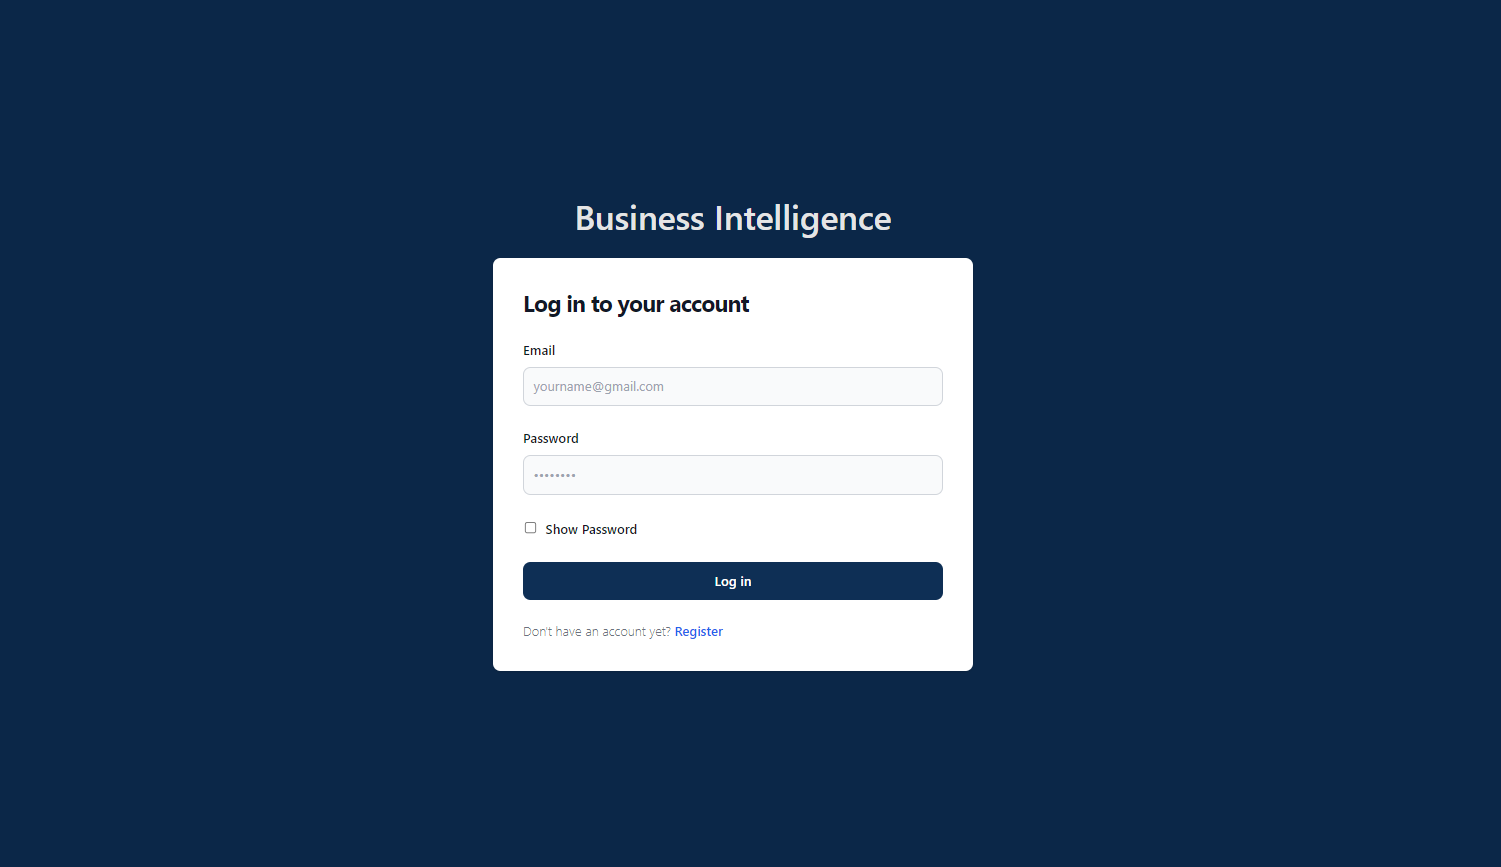
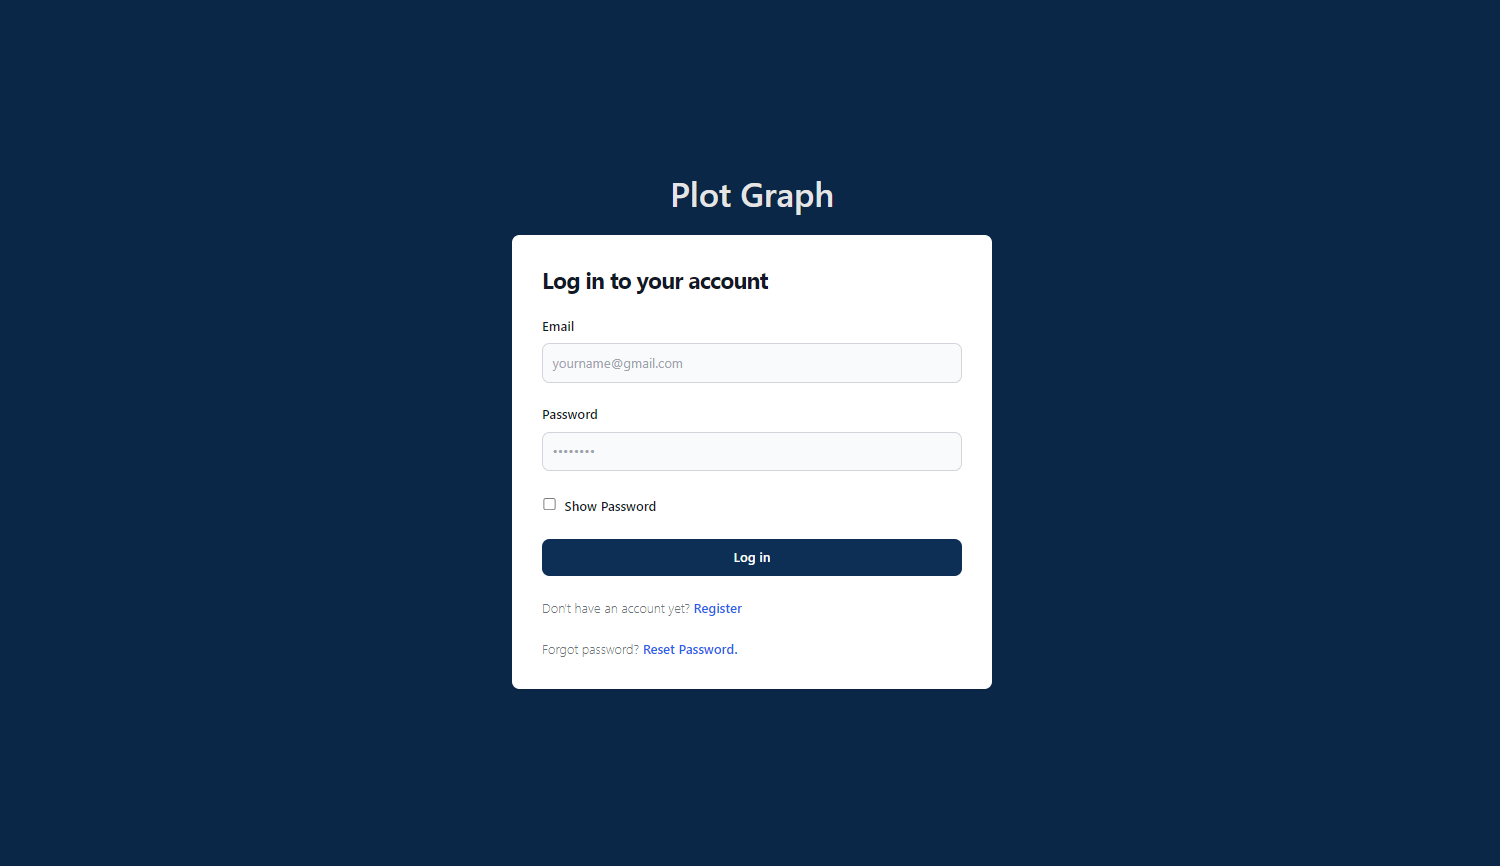
Change image

Changed region(s): [[0.3067, 0.2182, 0.6747, 0.8106]]

diff --git a/client/src/components/auth/Login.vue b/client/src/components/auth/Login.vue
@@ -8,7 +8,7 @@
           href="#"
           class="flex items-center mb-6 text-4xl font-semibold text-bi_white_active dark:text-white"
         >
-          Business Intelligence
+        Plot Graph
         </a>
         <div
           class="w-full bg-white rounded-lg shadow dark:border md:mt-0 sm:max-w-lg xl:p-0 dark:bg-gray-800 dark:border-gray-700"

diff --git a/client/src/components/auth/Register.vue b/client/src/components/auth/Register.vue
@@ -9,7 +9,7 @@
           href="#"
           class="flex items-center mb-6 text-4xl font-semibold text-bi_white_active dark:text-white"
         >
-          Business Intelligence
+        Plot Graph
         </a>
         <div
           class="w-full bg-white rounded-lg shadow dark:border md:mt-0 sm:max-w-lg xl:p-0 dark:bg-gray-800 dark:border-gray-700"

diff --git a/client/src/components/auth/ResetPassword.vue b/client/src/components/auth/ResetPassword.vue
@@ -8,7 +8,7 @@
           href="#"
           class="flex items-center mb-6 text-4xl font-semibold text-bi_white_active dark:text-white"
         >
-          Business Intelligence
+        Plot Graph
         </a>
         <div
           class="w-full bg-white rounded-lg shadow dark:border md:mt-0 sm:max-w-lg xl:p-0 dark:bg-gray-800 dark:border-gray-700"
